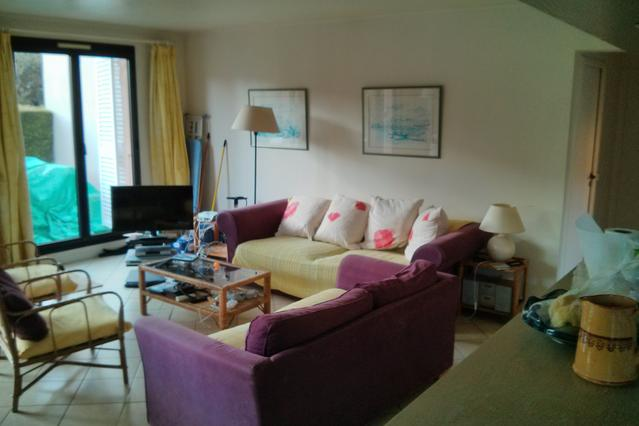
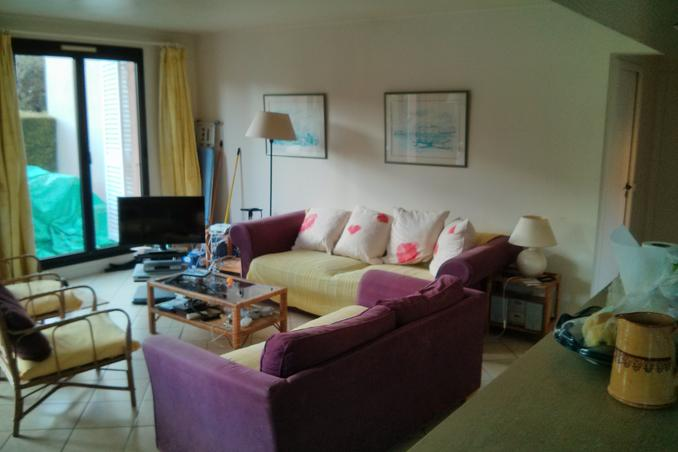
changed size of photo in gallery

diff --git a/src/housing/static/css/style.css b/src/housing/static/css/style.css
@@ -83,8 +83,10 @@ footer {
 }
 
 aside {
-    margin-left:680px;
-    height:512px;
+    /*margin-left:680px;
+    height:512px;*/
+    margin-left:720px;
+    height:538px;
     border:1px solid #239CD3;
     border-radius:3px;
     background-color:#F2F5F7;
@@ -149,7 +151,8 @@ aside table {
     border-radius: 3px;
     background-color: #F2F5F7;
     padding: 10px;
-    width: 639px;
+    width: 678px;
+    /*width: 639px;*/
 }
 
 #sliderContainer {
@@ -158,8 +161,10 @@ aside table {
 
 #photoContainer {
     background-color: #eeeeee;
-    width: 639px;
-    height: 426px;
+    /*width: 639px;
+    height: 426px;*/
+    width: 678px;
+    height: 452px;
     position: relative;
     display: inline-block;
     vertical-align: middle;

diff --git a/src/src/settings.py b/src/src/settings.py
@@ -110,7 +110,9 @@ LOGIN_URL = '/login/'
 
 # Images resize and thumbnails
 
-IMG_WIDTH = 639
-IMG_HEIGHT = 426
+#IMG_WIDTH = 639
+#IMG_HEIGHT = 426 previous size
+IMG_WIDTH = 678
+IMG_HEIGHT = 452
 THUMBNAIL_HEIGHT = 47
 THUMBNAIL_WIDTH = 70
